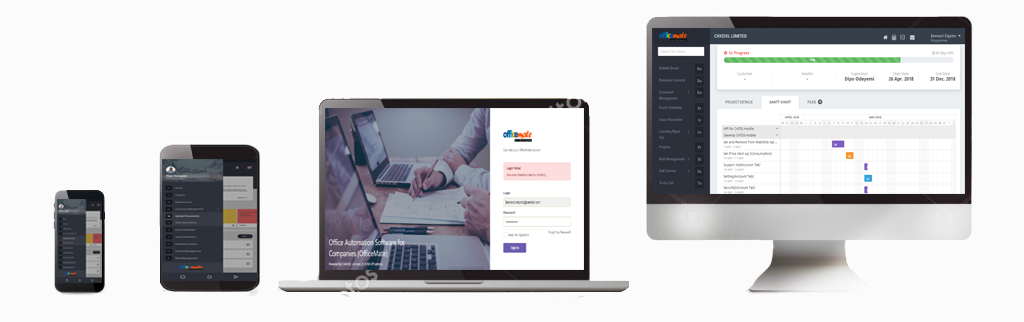
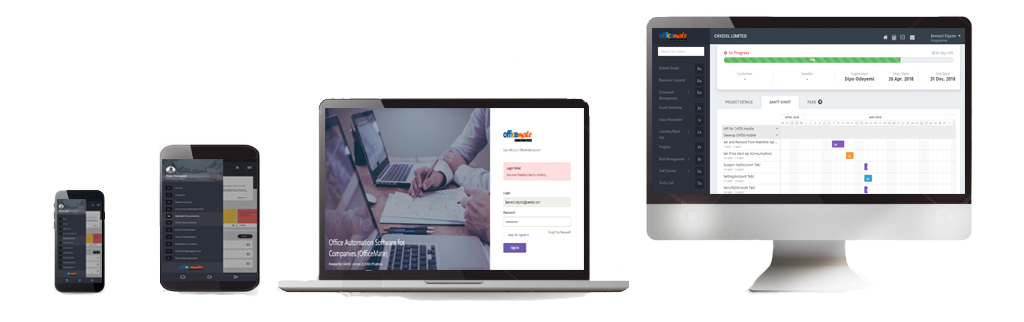
fixed cavidel future page

Changed region(s): [[0.3125, 0.8385, 0.5938, 0.9317], [0.1562, 0.9006, 0.25, 0.9317], [0.5312, 0.3106, 0.5625, 0.3416]]

diff --git a/resources/views/__includes/features.blade.php b/resources/views/__includes/features.blade.php
@@ -30,7 +30,7 @@
 
                                         <div class="col-sm-12">
                                             <div class="single_tab_img">
-                                                <img src="assets/images/stab0.jpg" alt="" />
+                                                <img src="assets/images/stab0.png" alt="" />
                                             </div>
                                         </div>
                                     </div>
